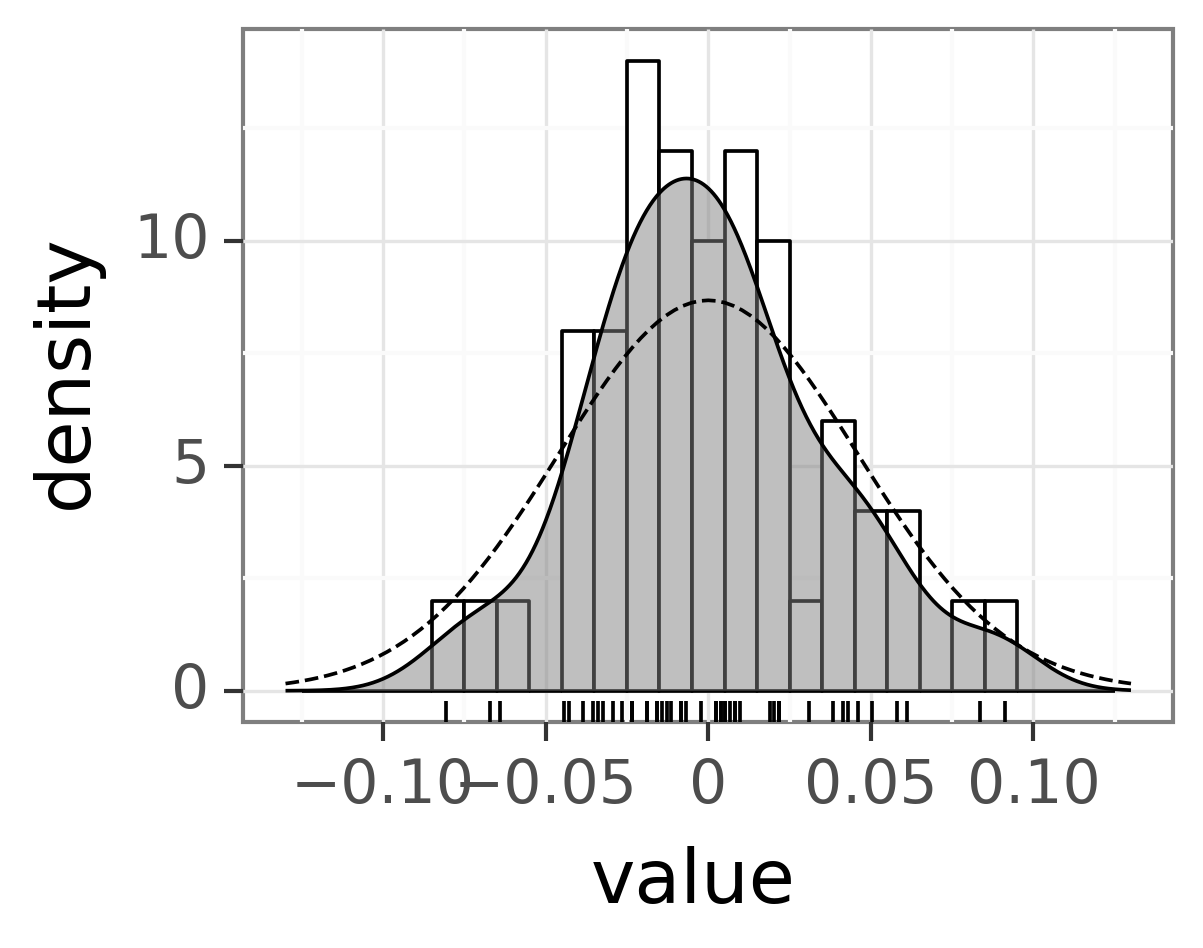
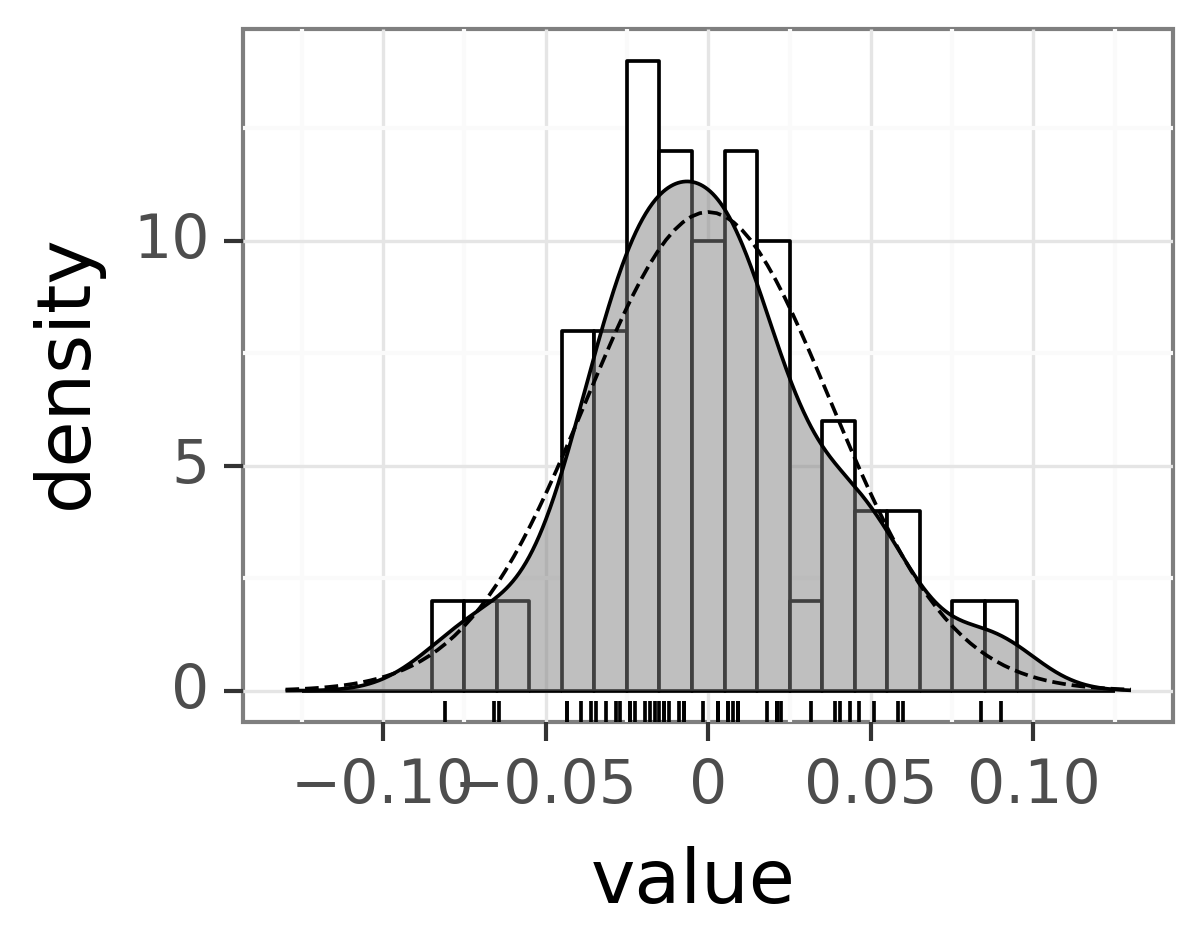
fix for s_MAP

diff --git a/chap05/fig5-3.py b/chap05/fig5-3.py
@@ -30,28 +30,28 @@ for i in range(N):
 d_mode = pandas.DataFrame(mode_list, columns=['X', 'Y'])
 
 p = (ggplot()
- + theme_bw(base_size=18)
- + geom_line(d_est, aes(x='value', group='PersonID'), stat='density', color='black', alpha=0.4)
- + geom_segment(d_mode, aes(x='X', xend='X', y='Y', yend=0), color='black', linetype='dashed', alpha=0.4)
- + geom_rug(d_mode, aes(x='X'), sides='b')
- + labs(x='value', y='density')
+    + theme_bw(base_size=18)
+    + geom_line(d_est, aes(x='value', group='PersonID'), stat='density', color='black', alpha=0.4)
+    + geom_segment(d_mode, aes(x='X', xend='X', y='Y', yend=0), color='black', linetype='dashed', alpha=0.4)
+    + geom_rug(d_mode, aes(x='X'), sides='b')
+    + labs(x='value', y='density')
 ) 
 p.save(filename='output/fig5-3-left.py.png', dpi=300, width=4, height=3)
 
 
 s_dens = stats.gaussian_kde(fit.stan_variable(var='sigma'))
 xs = np.linspace(-0.15, 0.15, 201)
-ys = density(xs)
+ys = s_dens(xs)
 s_MAP = xs[np.argmax(ys)]
 bw = 0.01
 
 p = (ggplot(d_mode, aes(x='X'))
- + theme_bw(base_size=18)
- + geom_histogram(aes(y='..density..'), binwidth=bw, color='black', fill='white')
- + geom_density(fill='gray', alpha=0.5)
- + geom_rug(sides='b')
- + stat_function(fun=stats.norm.pdf, args=dict(loc=0, scale=s_MAP), linetype='dashed')
- + labs(x='value', y='density')
- + xlim(-0.13, 0.13)
+    + theme_bw(base_size=18)
+    + geom_histogram(aes(y='..density..'), binwidth=bw, color='black', fill='white')
+    + geom_density(fill='gray', alpha=0.5)
+    + geom_rug(sides='b')
+    + stat_function(fun=stats.norm.pdf, args=dict(loc=0, scale=s_MAP), linetype='dashed')
+    + labs(x='value', y='density')
+    + xlim(-0.13, 0.13)
 ) 
 p.save(filename='output/fig5-3-right.py.png', dpi=300, width=4, height=3)
